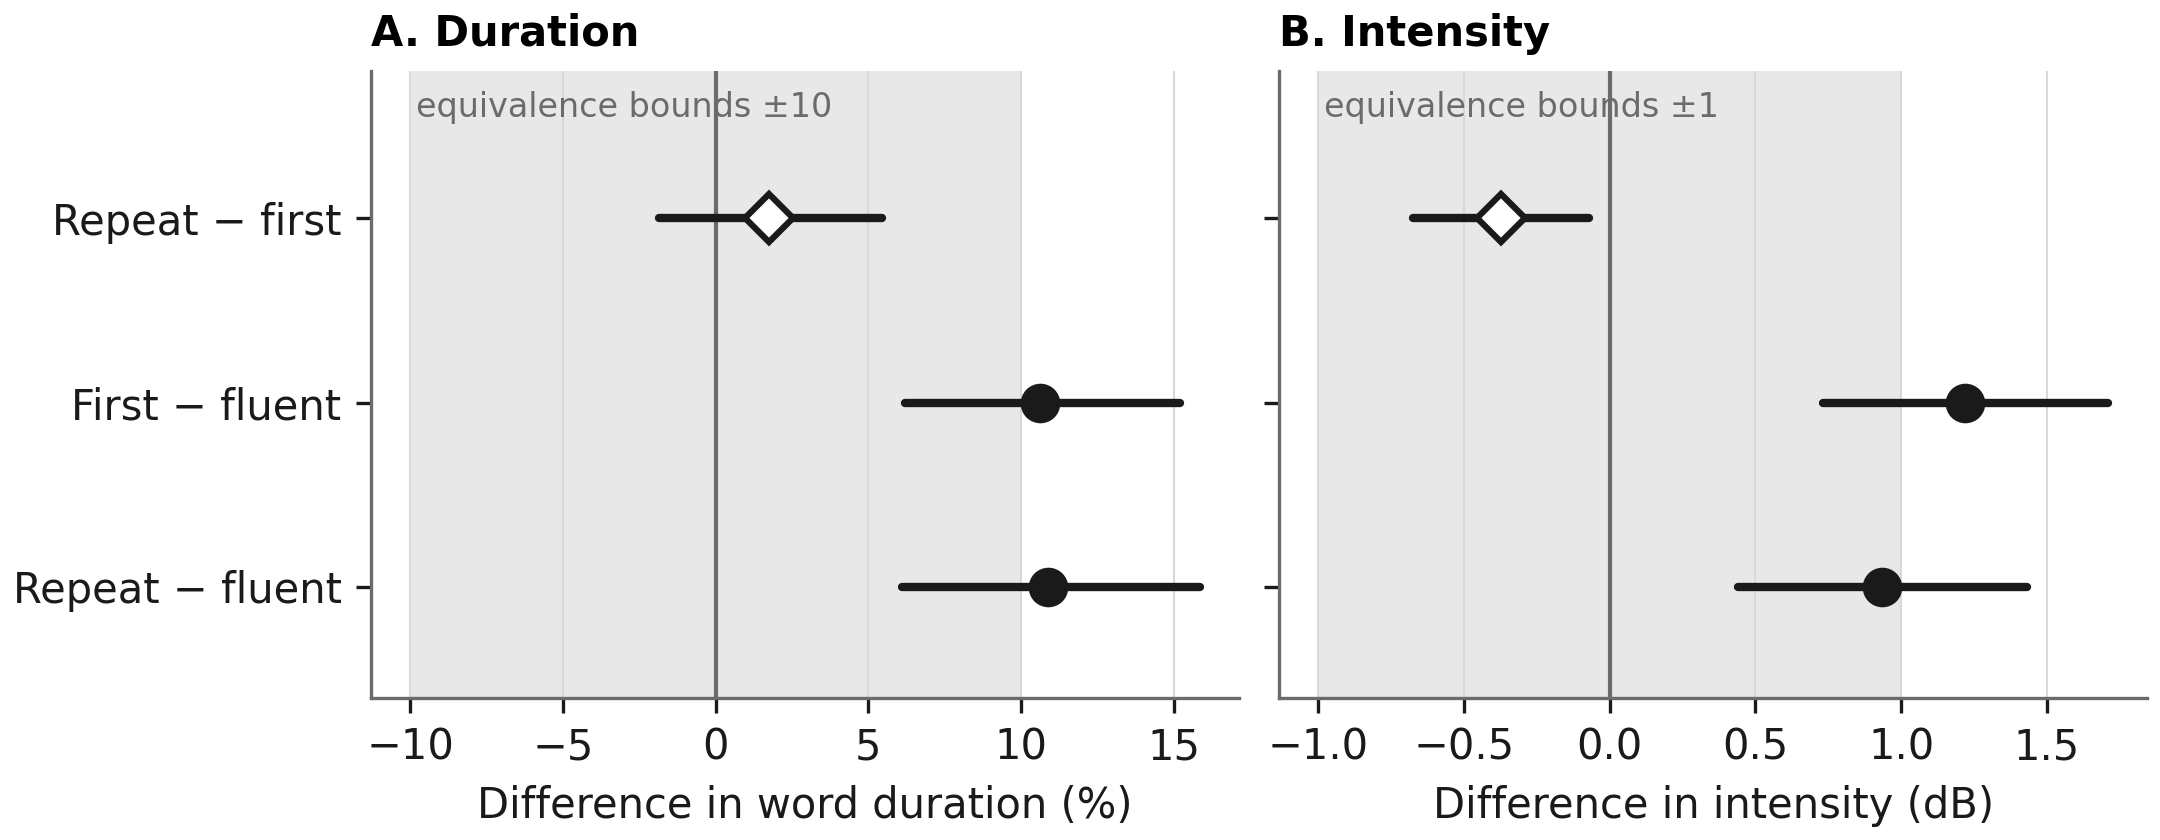
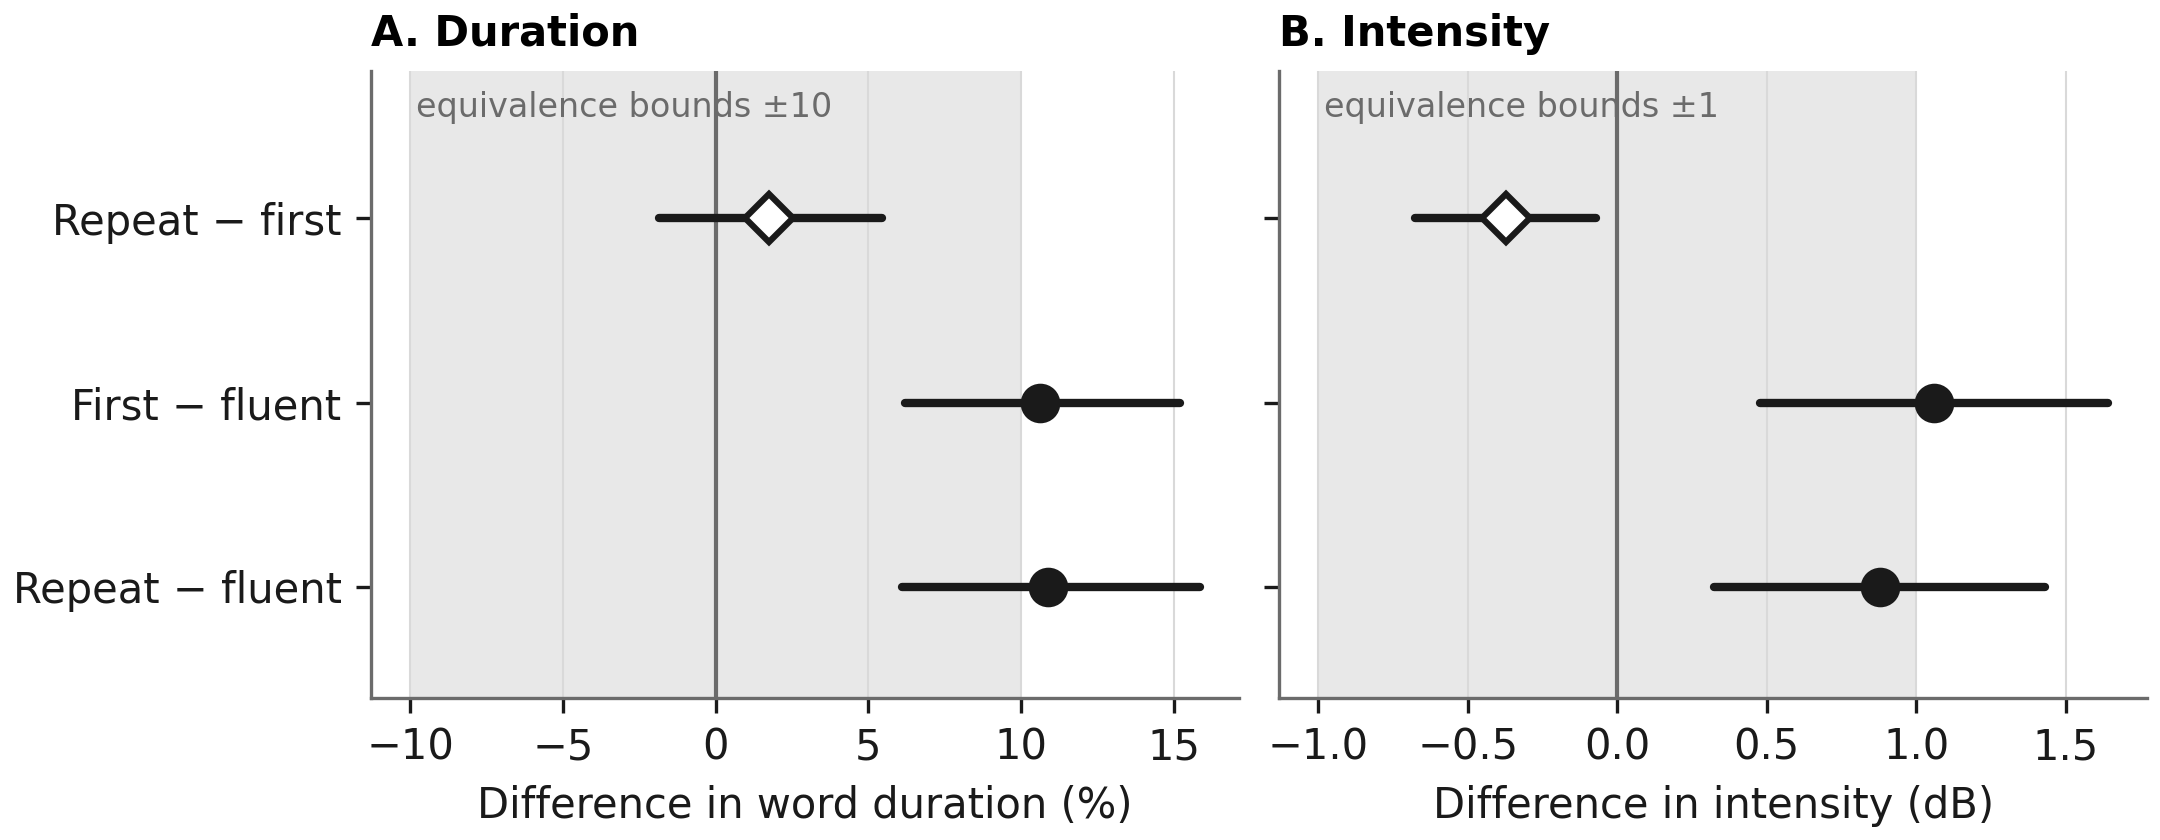
Fix random-effects selection in fit_max() and add sensitivity models
Uncorrelated slopes were written with a factor, (1 + condition || word),
which lme4 expands to an intercept plus one column per level, an
over-parameterized model at the boundary of singularity. The simplification
order is now fixed (drop by-speaker slopes, then by-word correlations, then
by-word slopes), with numeric dummies for uncorrelated slopes. F-R results
are unchanged; the baseline intensity model now keeps by-word slopes.
Baseline models with random intercepts only are reported as sensitivity.

diff --git a/README.md b/README.md
@@ -39,7 +39,7 @@ Rscript scripts/12_models_v2.R
 python3 scripts/13_figures_v2.py
 ```
 
-This reproduces `output_v2/models_v2.txt` and `estimates_v2.csv` (estimates agree with the reported ones to within 1e-7).
+This reproduces `output_v2/models_v2.txt` and `estimates_v2.csv` (estimates agree with the reported ones to within 1e-6).
 
 **Full pipeline (licensed copy of Buckeye required).**
 
@@ -60,7 +60,7 @@ python3 scripts/restore_from_corpus.py --raw raw --data output_v2
 
 Analyses were run with Python 3.14 (pandas 3.0.3, NumPy 2.4.4, Parselmouth 0.4.7 / Praat 6.1.38) and R 4.6.1 (lme4 2.0.6, lmerTest 3.2.1, glmmTMB 1.1.14).
 
-One caveat when re-running: the random-effects structure of each model is chosen automatically (`fit_max()` in `12_models_v2.R`). For the duration model comparing the fluent baseline with the repair tokens, the chosen structure is at the boundary of singularity. Numerically negligible changes to the input (for example, rewriting the CSV with fewer significant digits) can lead to a simpler structure, which changes the first-production and repetition versus fluent duration estimates. Always use the tables as distributed.
+The random-effects structure of each model is selected automatically by `fit_max()` in `12_models_v2.R`, in a fixed order: maximal structure, then without by-speaker slopes, then without correlations among the by-word slopes, then random intercepts only. Models for the comparison with the fluent baseline are also reported with random intercepts only, as a sensitivity analysis (`SENSITIVITY` sections of `models_v2.txt`).
 
 ## Citation
 
